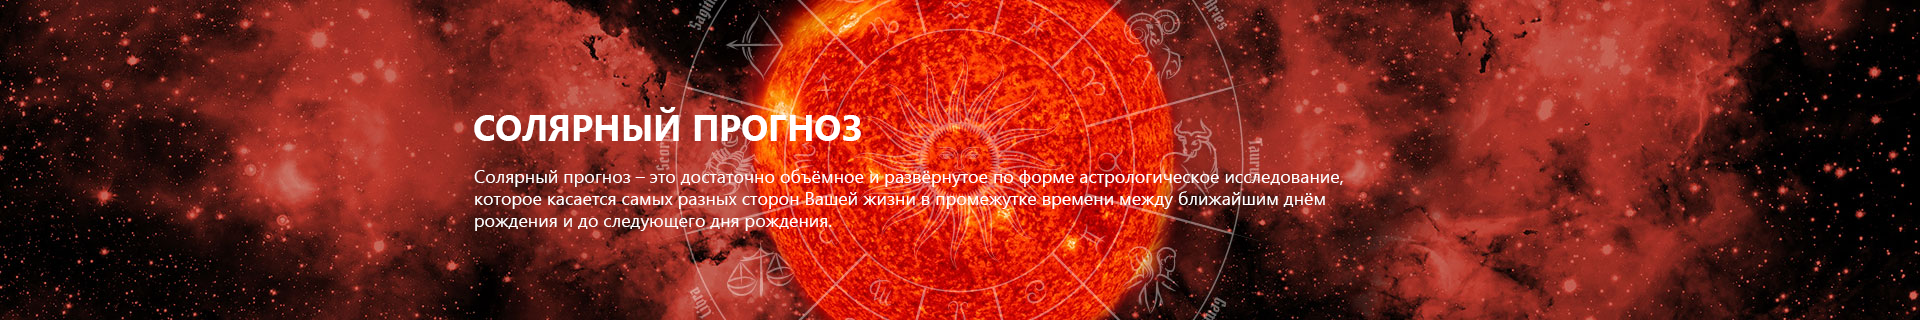
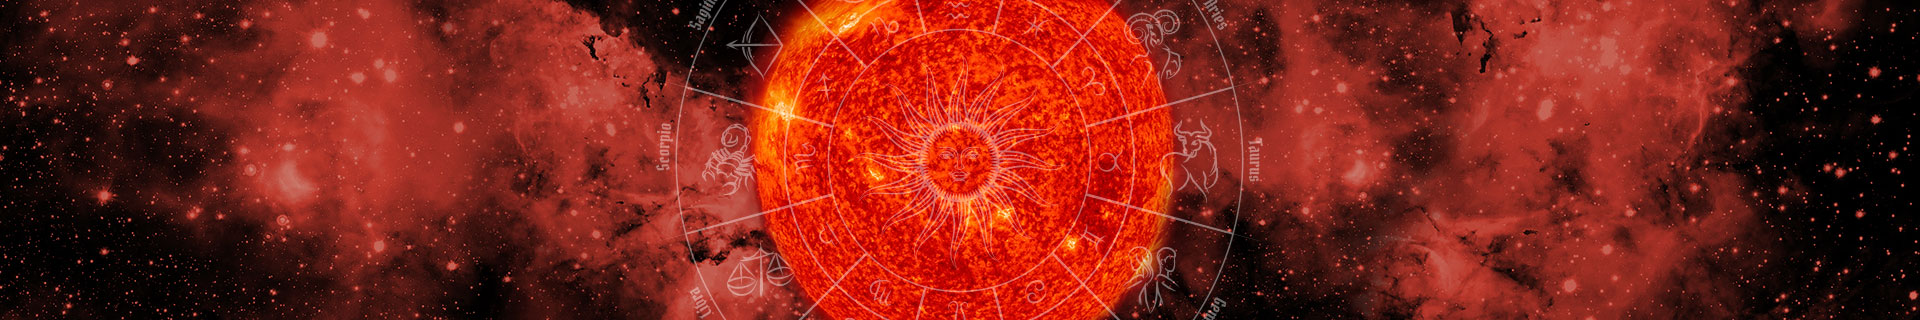
fix carousel

Changed region(s): [[0.25, 0.5312, 0.7188, 0.7188], [0.25, 0.3438, 0.4688, 0.4375]]

diff --git a/index.html b/index.html
@@ -11,10 +11,11 @@
 </head>
 <body>
 <nav class="navbar navbar-inverse">
-    <div class="container-fluid">
+    <div class="container">
         <div class="navbar-header">
             <a class="navbar-brand" href="#"><span>Наш телефон</span> <br>
-                <div class="number">0 800 505 25 55</div></a>
+                <div class="number">0 800 505 25 55</div>
+            </a>
         </div>
         <ul class="nav navbar-nav">
 
@@ -26,7 +27,7 @@
     </div>
 </nav>
 <nav class="navbar navbar-default">
-    <div class="container-fluid">
+    <div class="container">
         <div class="navbar-header">
             <button type="button" class="navbar-toggle" data-toggle="collapse" data-target="#navbar-collapse">
                 <span class="icon-bar"></span>
@@ -48,19 +49,17 @@
         </div>
     </div>
 </nav>
-<div class="container-fluid carousel-custom">
+<div class="container carousel-custom">
     <div id="myCarousel" class="carousel slide" data-ride="carousel">
-        <!-- Indicators -->
-        <ol class="carousel-indicators">
-            <li data-target="#myCarousel" data-slide-to="0" class="active"></li>
-            <!--<li data-target="#myCarousel" data-slide-to="1"></li>-->
-            <!--<li data-target="#myCarousel" data-slide-to="2"></li>-->
-        </ol>
 
         <!-- Wrapper for slides -->
         <div class="carousel-inner">
             <div class="item active">
                 <img src="assets/img/carousel.png" alt="Carousel" style="width:100%;">
+                <div class="carousel-caption"><h2>Солярный прогноз</h2> <br> <span>Солярный прогноз – это достаточно объёмное и развёрнутое по форме астрологическое исследование, <br>
+                    которое касается самых разных сторон Вашей жизни в промежутке времени между ближайшим днём <br>
+                    рождения и до следующего дня рождения.</span>
+                </div>
             </div>
         </div>
 
@@ -75,7 +74,7 @@
         </a>
     </div>
 </div>
-<div class="container-fluid">
+<div class="container">
     <div class="row services">
         <div class="col-lg-3 col-md-3 col-sm-3 centered love"><img src="assets/img/love.png" alt=""></div>
         <div class="col-lg-3 col-md-3 col-sm-3 centered"><img src="assets/img/business.png" alt=""></div>
@@ -83,9 +82,12 @@
         <div class="col-lg-3 col-md-3 col-sm-3 centered"><img src="assets/img/fate.png" alt=""></div>
     </div>
 </div>
+<div class="container-fluid">
+    <div class="row">
+        <div class="col-lg-8 col-md-8 col-sm-8"></div>
+    </div>
+</div>
 
 
-<script src="assets/js/jquery-3.2.1.min.js"></script>
-<script src="assets/js/bootstrap.min.js"></script>
 </body>
 </html>

diff --git a/assets/css/style.css b/assets/css/style.css
@@ -60,26 +60,41 @@ body {
 }
 
 
-.services .col-lg-3 {
+.services .col-lg-3, .col-md-3 {
     padding:55px 30px;
     background-color: #ffffff;
-    margin: 20px 0;
+    margin: 20px 0 0 10px;
+    width: 24%;
+
 }
 
 .services .col-lg-3:hover {
     border-bottom: 2px solid #bc0f0f;
 }
 
+#myCarousel {
+    position: relative;
+}
+
+.carousel-caption {
+    position: absolute;
+    bottom: 8px;
+    right: 16px;
+}
+
+
 .left-arrow {
     position: absolute;
-    top:35%;
-    left: 0;
+    top:50%;
+    left: 20px;
+    transform: translate(-50%, -50%);
 }
 
 .right-arrow {
     position: absolute;
-    top: 35%;
-    right: 0;
+    top: 50%;
+    right: -20px;
+    transform: translate(-50%, -50%);
 }
 
 .love {
